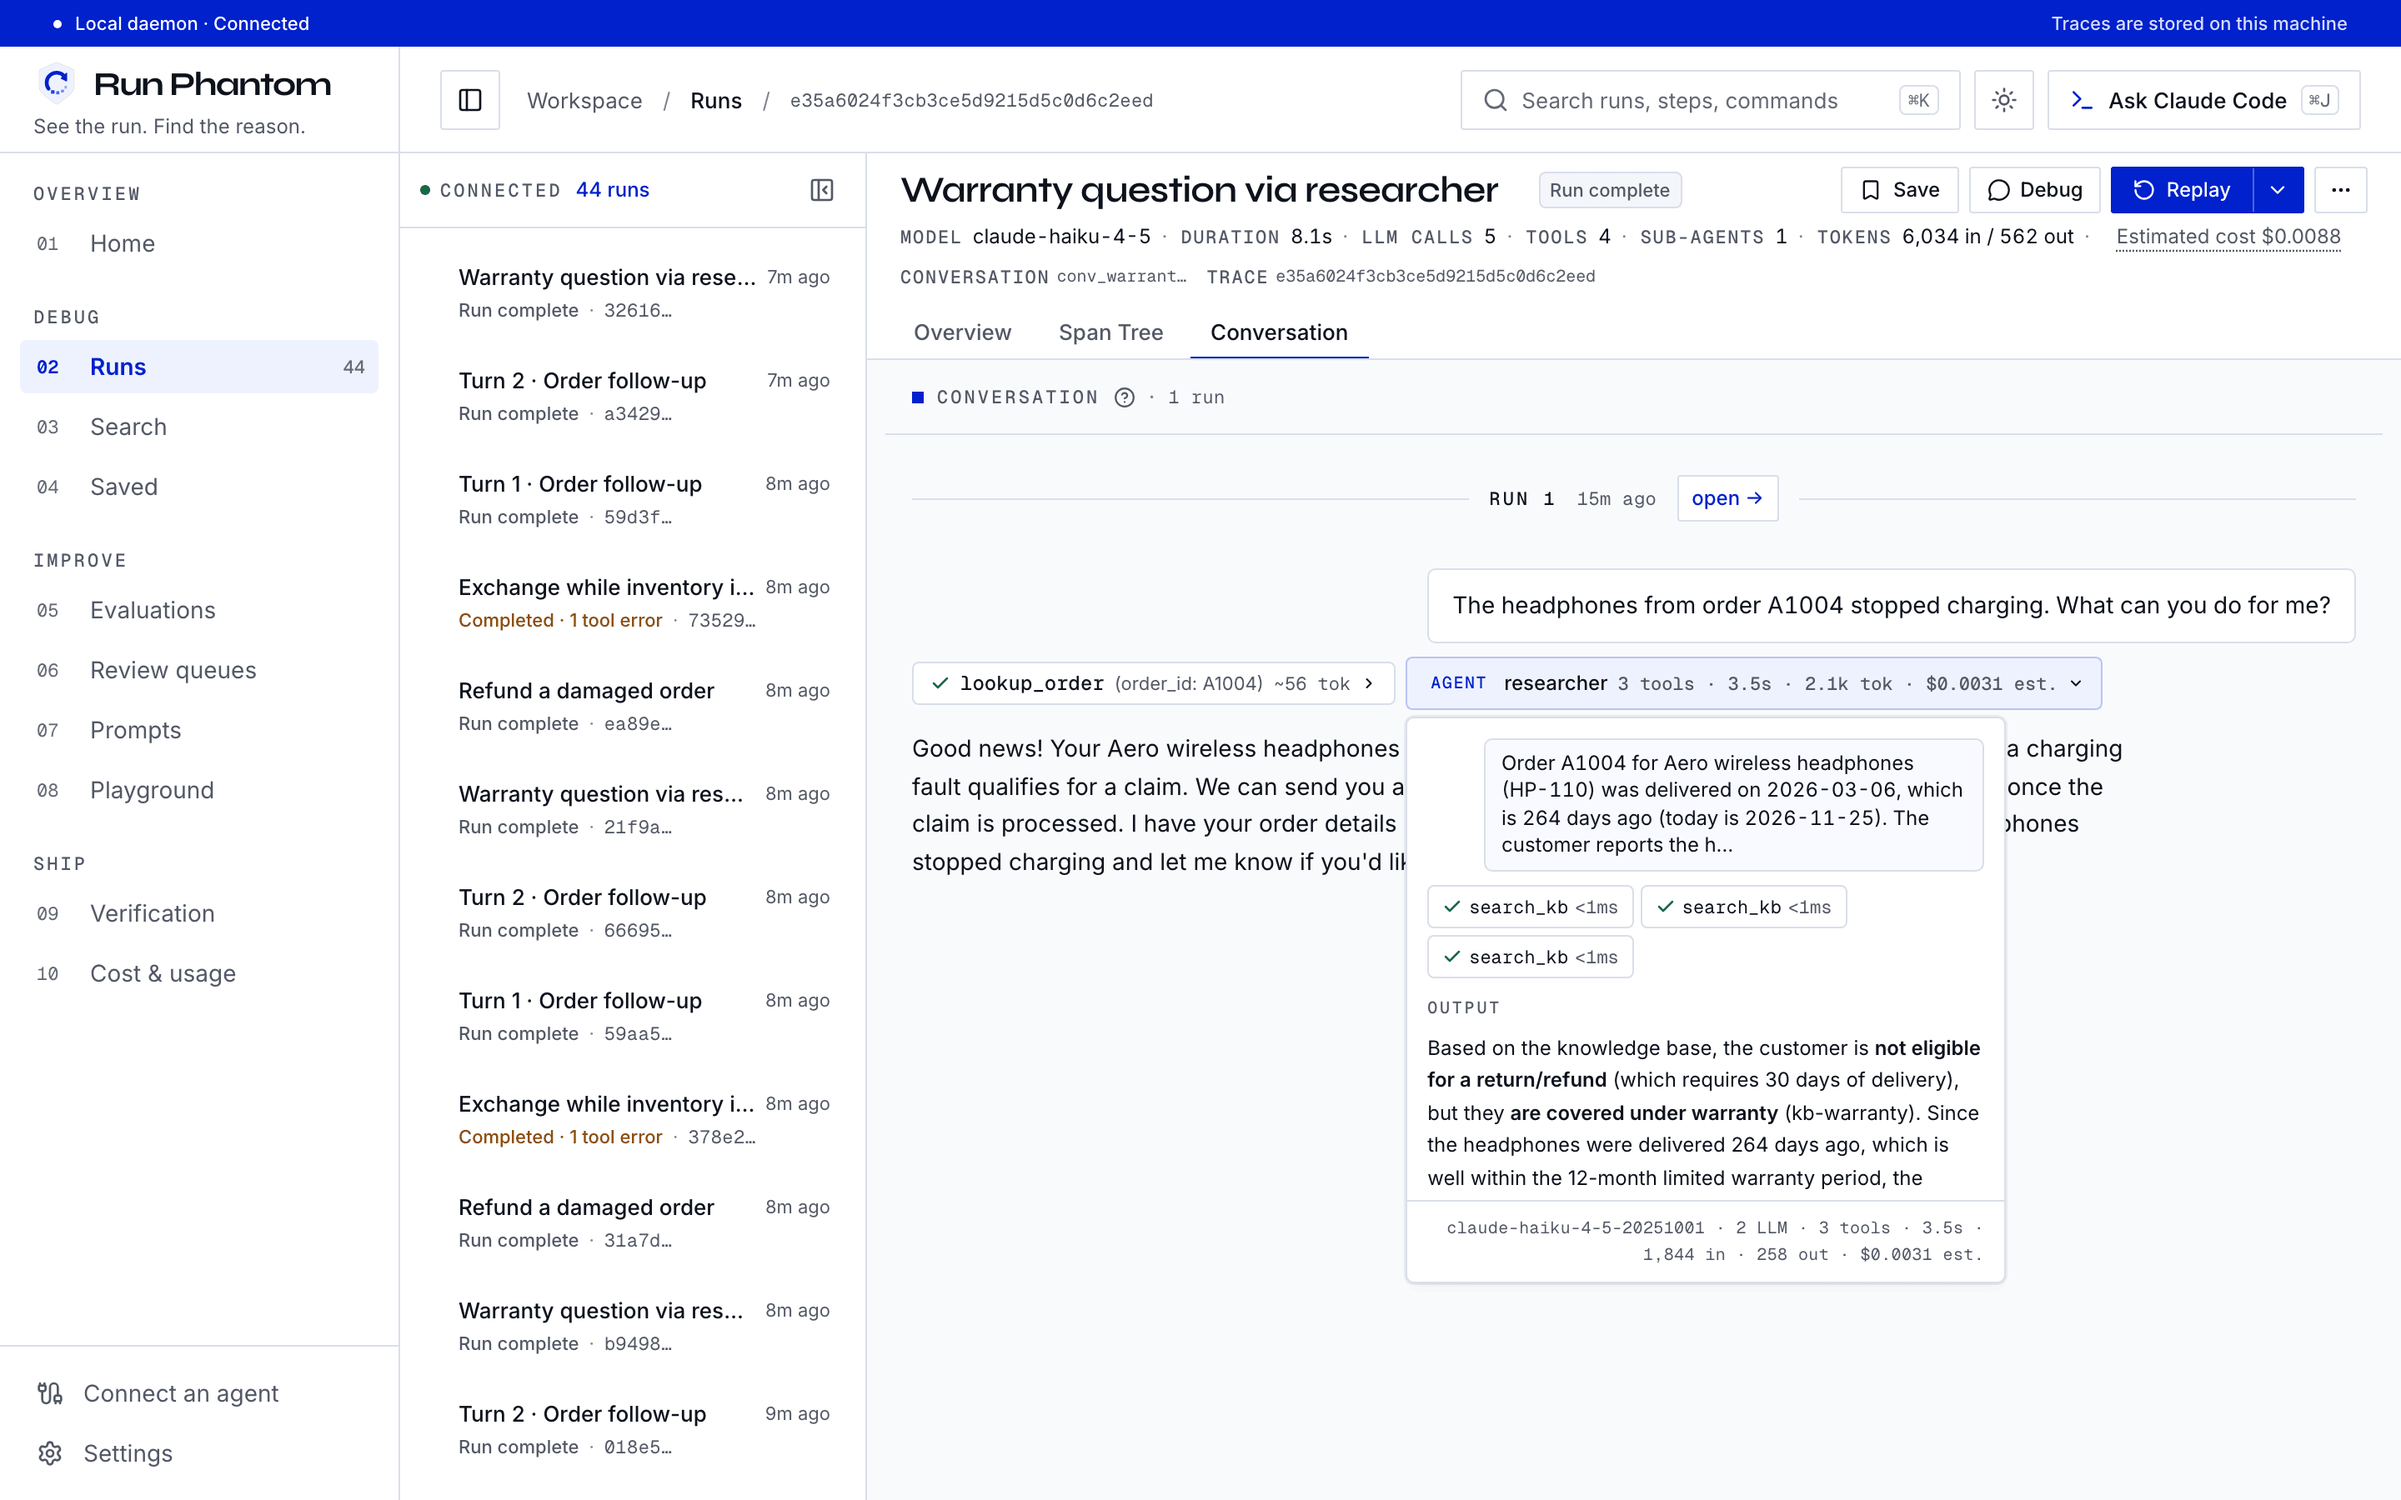
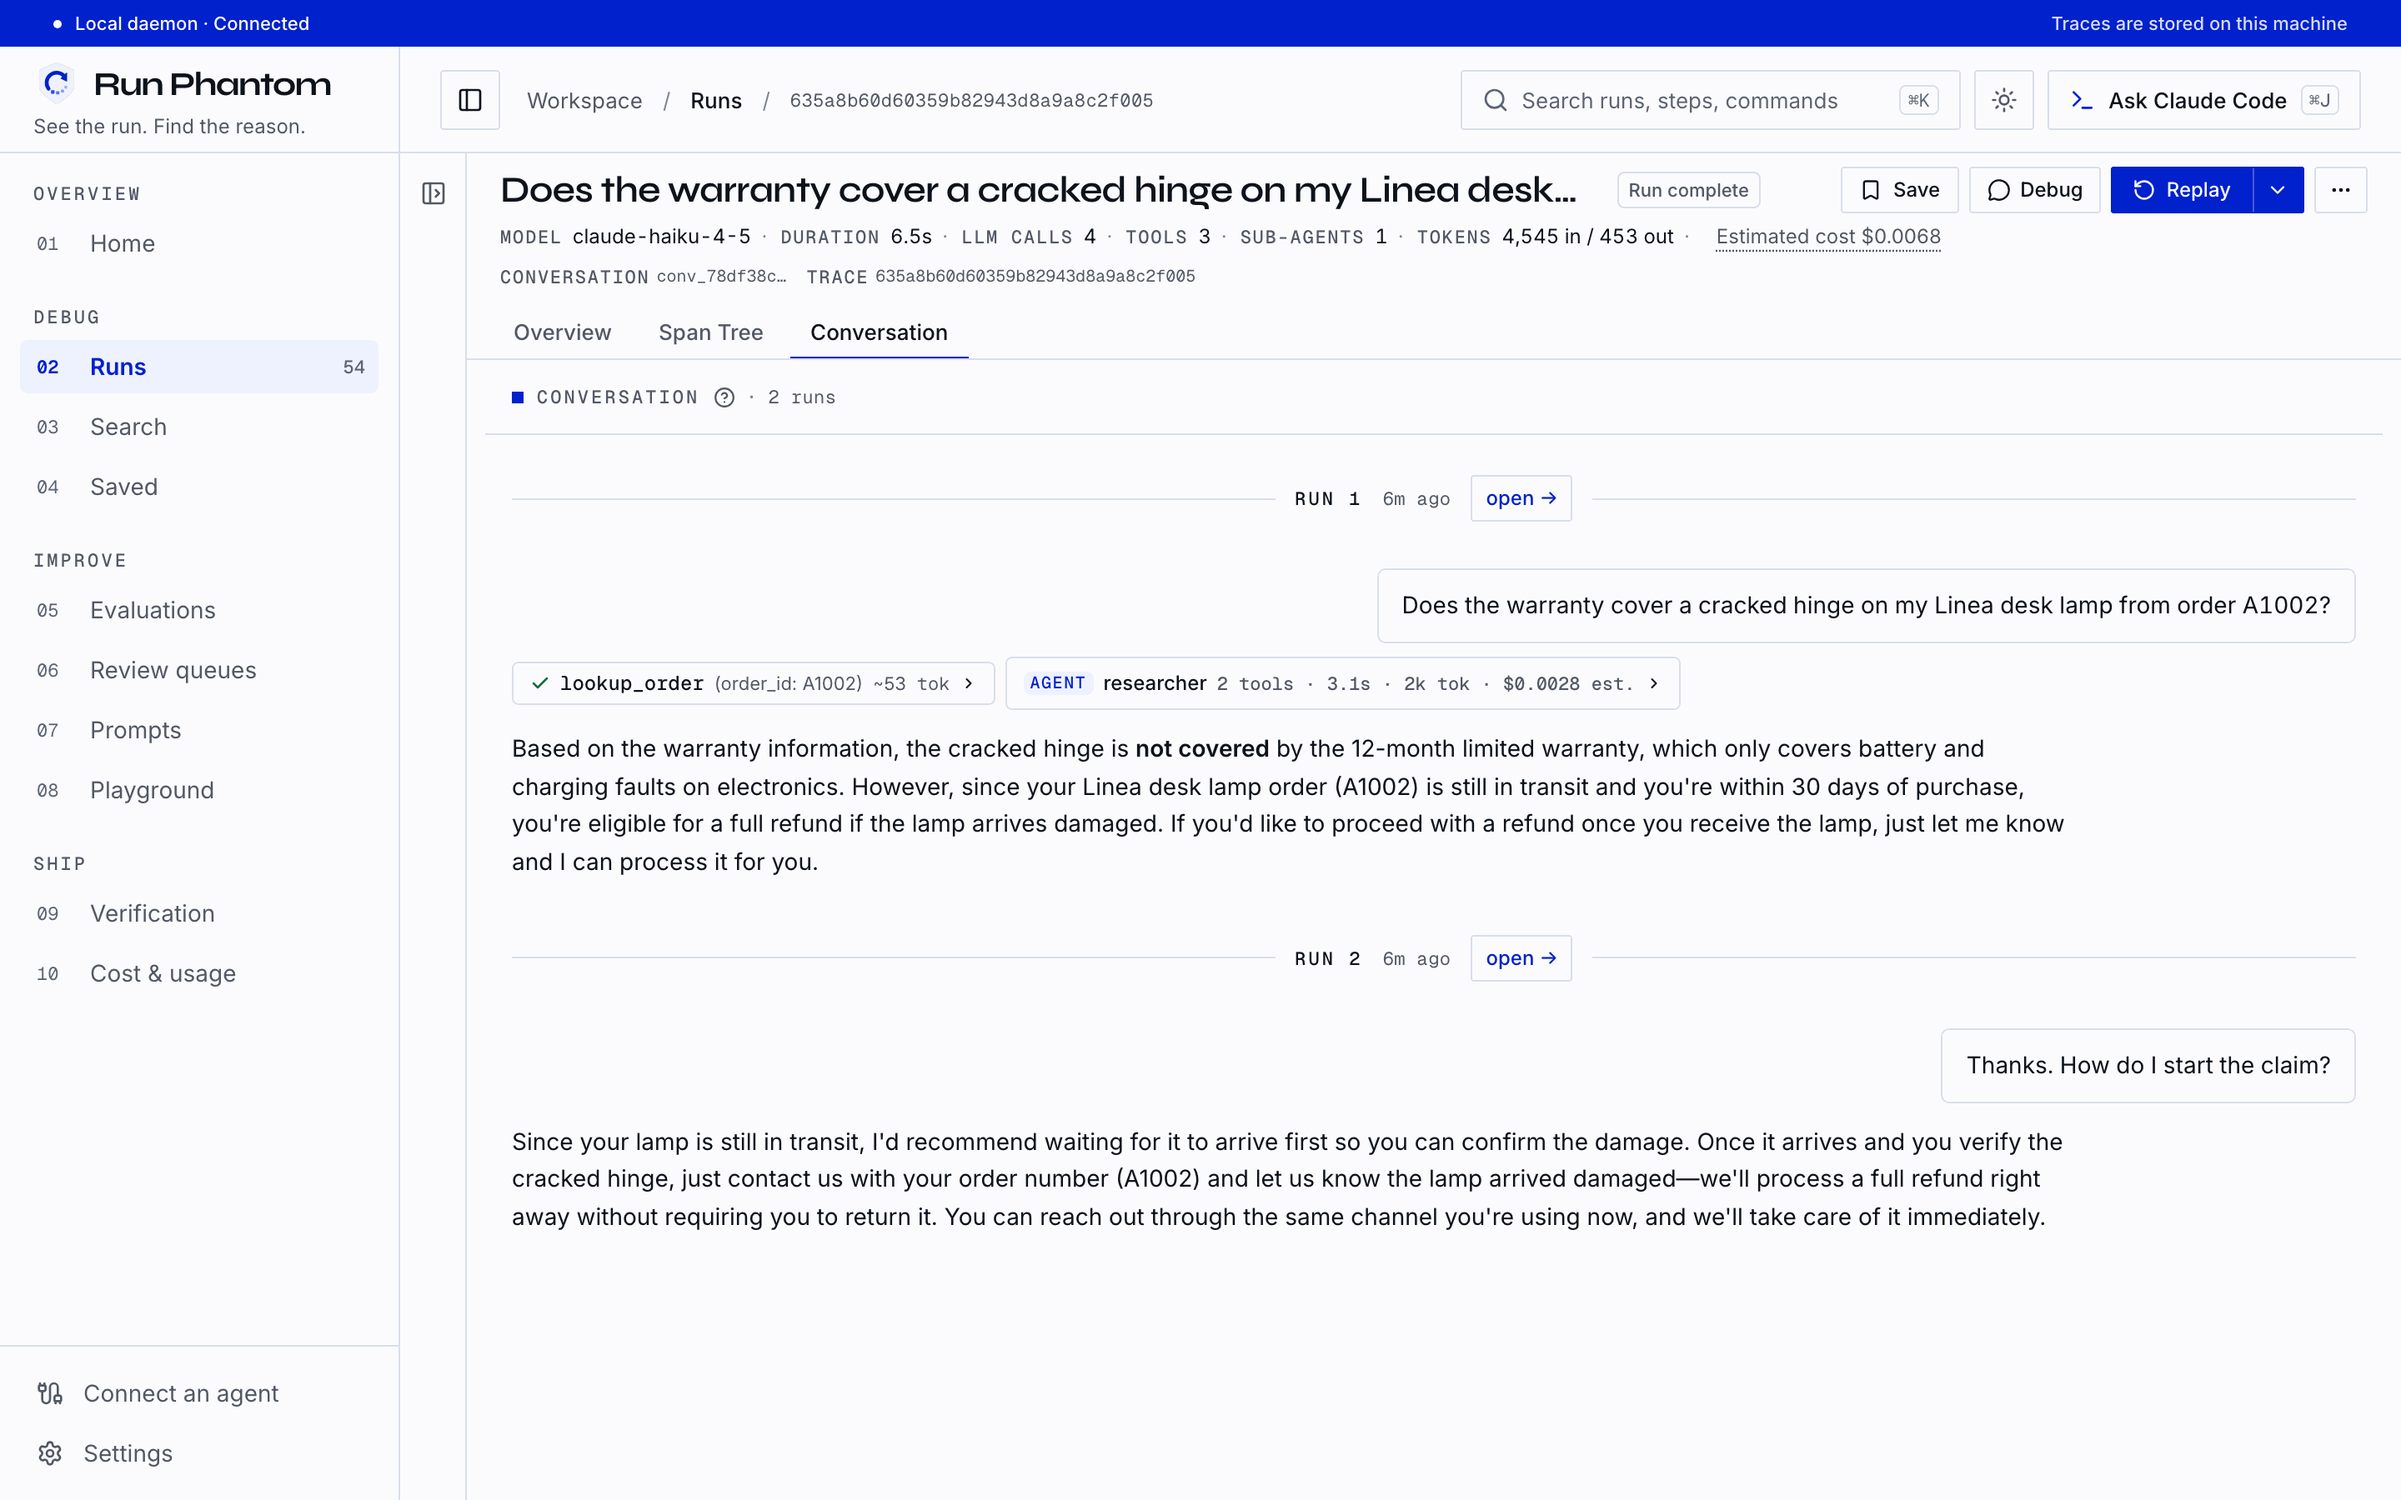
docs: recapture the README tour from one consistent dataset
Problem: review of the launch README found the Conversation shot showed the
researcher sub-agent popover covering the middle of the assistant's reply,
so the reply read as cut off. The Playground shot came from an earlier
moment (Runs 29 against 44 elsewhere), with the system prompt and Add
message clipped. The dark run-detail drawer wrapped its title over three
lines and showed raw tool-call JSON as input. The capture also used
gpt-5-mini, outside the three models the lane allowed. The README said
sample runs are labelled Sample in the table, which holds on desktop only,
and exported a 127.0.0.1 endpoint while connect --print prints localhost.

Approach: rebuild every screenshot in one pass from a fresh isolated
instance holding only real runs: two scenario batches of examples/tool-agent
on gpt-5-nano, claude-haiku-4-5-20251001 and gemini-3.8-flash, extra
single and multi-turn agent runs, a live three-model Playground compare
run first in the same pass, and an evaluation dataset of four cases with
six experiments built from those runs. Every shot shows Runs 54.
- Conversation: a two-turn Claude conversation with the researcher card
  closed, so both replies are fully readable. The popover is a product
  layout issue handled in the conversation fix lane, not hidden here.
- Playground: two-line system prompt, form scrolled so Add message is
  fully visible, no word diff so each reply fits its column.
- Dark run detail: the researcher's first model call, with a plain user
[…]

diff --git a/README.md b/README.md
@@ -54,7 +54,7 @@ you can:
 
 - **Send a test span** to check that the connection works;
 - **Load sample runs** to explore the app with sample data that makes no
-  provider calls; sample runs are labelled **Sample** in the table;
+  provider calls; on desktop, the runs table labels them **Sample**;
 - copy the command that runs the bundled example agent (below).
 
 | Local service | Default address |
@@ -102,6 +102,9 @@ local daemon:
 ```bash
 export OTEL_EXPORTER_OTLP_TRACES_ENDPOINT=http://127.0.0.1:5947/v1/traces
 ```
+
+`runphantom-dev connect --print` prints the same address as
+`http://localhost:5947/v1/traces`; either host reaches the local daemon.
 
 It reads the OpenTelemetry GenAI and OpenInference conventions, so existing
 instrumentation works without a Run Phantom SDK. What a run shows depends on
@@ -164,7 +167,7 @@ choose columns, and save the current filters as a named view in the sidebar.
 Select runs to compare, export, add to a test set or delete. New runs stream in
 live.
 
-![Runs table listing support-agent and Playground runs across Gemini, Claude and GPT models with status, duration, tokens and cost](./screenshots/runs.png)
+![Runs table filtered to the support agent: complete runs, runs that finished with a tool error and failed runs on Gemini, Claude and GPT models, with duration, tokens, cost and errors](./screenshots/runs.png)
 
 ### Run detail
 
@@ -176,7 +179,7 @@ opens a resizable drawer with the error first, then input and output, tools,
 timing, usage, cost and every attribute. **Open in Playground** loads a captured
 model call into the Playground.
 
-![Run detail in the dark theme: a nested waterfall with a researcher sub-agent and the drawer for one of its model calls](./screenshots/run-detail-dark.png)
+![Run detail in the dark theme: a nested waterfall with a researcher sub-agent and the drawer for its first model call, showing the question it was given and the search_kb call it requested](./screenshots/run-detail-dark.png)
 
 ### Conversation and sub-agents
 
@@ -185,7 +188,7 @@ and the reply. A sub-agent appears as a card with its tool calls, duration,
 tokens and cost; open it to see what it was asked, the tools it used and its
 output. Turns that share a conversation id are grouped.
 
-![Conversation tab with a lookup_order tool call and an expanded researcher sub-agent card showing its search_kb calls and output](./screenshots/conversation-subagent.png)
+![Conversation tab with two turns of one conversation: a lookup_order tool call, a researcher sub-agent card with two tool calls, duration, tokens and cost, and the agent's replies](./screenshots/conversation-subagent.png)
 
 ### Playground
 
